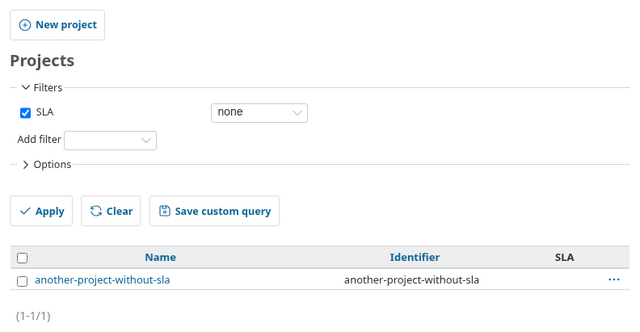
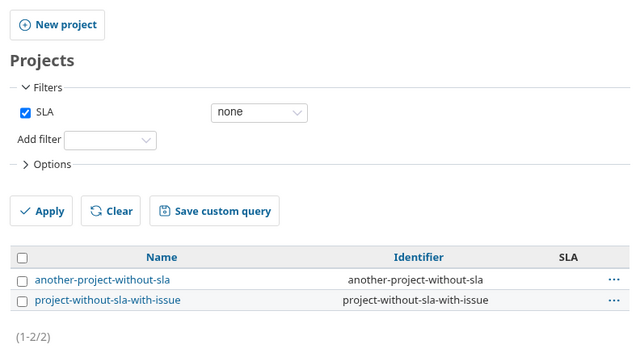
Generate fixtures for a project without SLA and time entries
The fixture generator adds a project without SLA that has an issue and
writes time entries before each generated status change. Project list
tests and screenshots include the new project. Release 3.3.2.

diff --git a/test/functional/sla_project_lists_controller_test.rb b/test/functional/sla_project_lists_controller_test.rb
@@ -93,8 +93,8 @@ class SlaProjectListsProjectsControllerTest < ApplicationSlaFunctionalsTestCase
   # Expected SLA visibility per profile: projects listed, and projects whose
   # SLAs are shown (cell / board icon). nil = column and filter not offered.
   PROFILES = {
-    'admin'     => { listed: [1, 2, 3, 4, 5], sla: [1, 2, 3, 4] },
-    'manager'   => { listed: [1, 2, 3, 4, 5], sla: [1, 2, 3, 4] },
+    'admin'     => { listed: [1, 2, 3, 4, 5, 6], sla: [1, 2, 3, 4] },
+    'manager'   => { listed: [1, 2, 3, 4, 5, 6], sla: [1, 2, 3, 4] },
     'developer' => { listed: [1, 4],          sla: [1, 4] },
     'reporter'  => { listed: [1, 2, 3, 4],    sla: nil },
     'other'     => { listed: [],              sla: nil }
@@ -218,7 +218,7 @@ class SlaProjectListsAdminControllerTest < ApplicationSlaFunctionalsTestCase
     assert_response :success
     assert sla_column_offered?
     assert sla_filter_offered?
-    assert_equal [1, 2, 3, 4, 5], listed_project_ids
+    assert_equal [1, 2, 3, 4, 5, 6], listed_project_ids
     assert_equal [1, 2, 3, 4], project_ids_with_sla_cell
   end
 
@@ -229,7 +229,7 @@ class SlaProjectListsAdminControllerTest < ApplicationSlaFunctionalsTestCase
     assert_equal [1, 2, 3, 4], listed_project_ids
 
     get :projects, params: { set_filter: 1, c: %w[name slas] }.merge(no_sla_filter)
-    assert_equal [5], listed_project_ids
+    assert_equal [5, 6], listed_project_ids
   end
 
   test "admin: project SLAs shown even when the SLA module is disabled" do

diff --git a/test/unit/sla_project_query_test.rb b/test/unit/sla_project_query_test.rb
@@ -53,9 +53,9 @@ class SlaProjectQueryTest < ApplicationSlaUnitsTestCase
     User.current = User.find(1)
 
     assert_equal [1, 2, 3, 4], project_ids_for(ProjectAdminQuery, '*')
-    assert_equal [5], project_ids_for(ProjectAdminQuery, '!*')
+    assert_equal [5, 6], project_ids_for(ProjectAdminQuery, '!*')
     assert_equal [4], project_ids_for(ProjectAdminQuery, '=', ['7'])
-    assert_equal [1, 2, 3, 5], project_ids_for(ProjectAdminQuery, '!', ['7', '8'])
+    assert_equal [1, 2, 3, 5, 6], project_ids_for(ProjectAdminQuery, '!', ['7', '8'])
   end
 
   test "admin filter values list every SLA" do

diff --git a/test/documentation/sla_project_lists_doc_test.rb b/test/documentation/sla_project_lists_doc_test.rb
@@ -87,8 +87,9 @@ class SlaProjectListsDocTest < ApplicationSlaSystemTestCase
     take_doc_screenshot '01-01-admin-projects-with-sla.png'
 
     visit list_path('/admin/projects', filter: '!*')
-    assert_selector 'table.projects tr[id^="project-"]', count: 1
+    assert_selector 'table.projects tr[id^="project-"]', count: 2
     assert_selector 'table.projects tr#project-5'
+    assert_selector 'table.projects tr#project-6'
     take_doc_screenshot '01-02-admin-projects-without-sla.png'
   end
 

diff --git a/lib/redmine_sla/version.rb b/lib/redmine_sla/version.rb
@@ -26,5 +26,5 @@
 module RedmineSla
   # Current plugin version.
   # This is the value displayed in Redmine's plugin administration screen.
-  Version = '3.3.1'.freeze
+  Version = '3.3.2'.freeze
 end

diff --git a/doc/TESTING.md b/doc/TESTING.md
@@ -1,5 +1,35 @@
 # Testing
 
+## Version 3.3.2 fixtures for a project without SLA
+
+Validated on **2026-10-16** in isolated local test containers:
+
+| Redmine | Ruby | Rails | PostgreSQL 17.7 | MariaDB 10.11.19 | MySQL 8.0.46 strict |
+| --- | --- | --- | --- | --- | --- |
+| 5.1.13 | 3.2.11 | 6.1.7.10 | 1166 / 6107 | 1166 / 6104 | 1166 / 6104 |
+| 6.1.4 | 3.4.11 | 7.2.3.2 | 1166 / 6195 | 1166 / 6192 | 1166 / 6192 |
+| 7.0.1 | 4.0.7 | 8.1.3.1 | 1166 / 6733 | 1166 / 6730 | 1166 / 6730 |
+
+Each combination ran **247 unit, 465 functional, 350 integration/API,
+35 Chromium system and 69 documentation tests**, with zero failures or
+errors: **10,494 tests** across the matrix. Cells record tests / assertions.
+The two migration unit tests skipped by design on MariaDB and MySQL are
+those of 3.1.2 and 3.1.3. On Redmine 6.1.4 with MySQL, the unit suite was
+rerun alone after a first run started without its generated fixtures in the
+parallel test environment; the rerun passed. MySQL retained
+`ONLY_FULL_GROUP_BY`, `STRICT_TRANS_TABLES` and `STRICT_ALL_TABLES` in the
+Rails session.
+
+The generated project without SLA and with an issue is listed with the
+projects without SLA by the project list tests, for administrators and
+managers; the project list screenshots were regenerated accordingly. The
+generated `time_entries.yml` is not loaded by the test suites.
+
+This release introduces no migration. These results cover the exact versions
+above. No production deployment or representative performance benchmark was
+performed. Historical results below remain separate validations of their
+respective versions.
+
 ## Version 3.3.1 roles and permissions documentation
 
 Validated on **2026-10-16** in isolated local test containers:

diff --git a/README.md b/README.md
@@ -14,7 +14,7 @@
 
 ## Overview
 
-Current version: **3.3.1**. See the [changelog](CHANGELOG.md) for release details.
+Current version: **3.3.2**. See the [changelog](CHANGELOG.md) for release details.
 
 -   Website: https://github.com/likehopper/redmine_sla
 -   Code repository: git@github.com:likehopper/redmine_sla.git
@@ -196,9 +196,9 @@ Fully manageable through UI and REST API:
 | `Rails`            | >= 6.1                                            |
 | `Database`         | PostgreSQL >= 11, MySQL >= 8.0 or MariaDB >= 10.2 |
 
-Version **3.3.1** has been tested on Redmine **5.1.13,
+Version **3.3.2** has been tested on Redmine **5.1.13,
 6.1.4 and 7.0.1**, with all five suites on PostgreSQL, MariaDB and strict
-MySQL. See the [compatibility matrix](doc/TESTING.md#version-331-roles-and-permissions-documentation)
+MySQL. See the [compatibility matrix](doc/TESTING.md#version-332-fixtures-for-a-project-without-sla)
 for exact runtime versions and results.
 
 ------------------------------------------------------------------------
@@ -284,7 +284,12 @@ Plugin is ready to use.
 
 ------------------------------------------------------------------------
 
-## Upgrade to 3.3.1
+## Upgrade to 3.3.2
+
+Version **3.3.2** only extends the test fixtures. Update the plugin files;
+there is no migration and no functional change relative to 3.3.1.
+
+### Previous upgrade: 3.3.1
 
 Version **3.3.1** documents the SLA roles and permissions in the
 [plugin settings](doc/SETTINGS.md#roles-and-permissions). Update the plugin

diff --git a/CHANGELOG.md b/CHANGELOG.md
@@ -1,5 +1,21 @@
 # Changelog
 
+## 3.3.2 - 2026-10-24
+
+### Tests
+
+-   The fixture generator adds a project without SLA that has an issue
+    (`project-without-sla-with-issue`), to cover ordinary issue tracking
+    outside any SLA. The project list tests and screenshots include it.
+-   The fixture generator also writes `time_entries.yml`: half an hour
+    logged before each status change of the generated issues, and on the
+    issue without SLA. The test suites do not load it yet.
+
+### Upgrade
+
+-   No change for installations: test fixtures only, no migration and no
+    functional change relative to 3.3.1.
+
 ## 3.3.1 - 2026-10-23
 
 ### Documentation

diff --git a/doc/PROJECT_LISTS.md b/doc/PROJECT_LISTS.md
@@ -28,7 +28,7 @@ The filter values only list SLAs assigned to projects the user may see.
 ## Screenshots
 
 Screenshots are taken on the test fixtures: projects 1 to 4 have SLAs,
-`another-project-without-sla` has none.
+`another-project-without-sla` and `project-without-sla-with-issue` have none.
 
 ### Administrator
 
